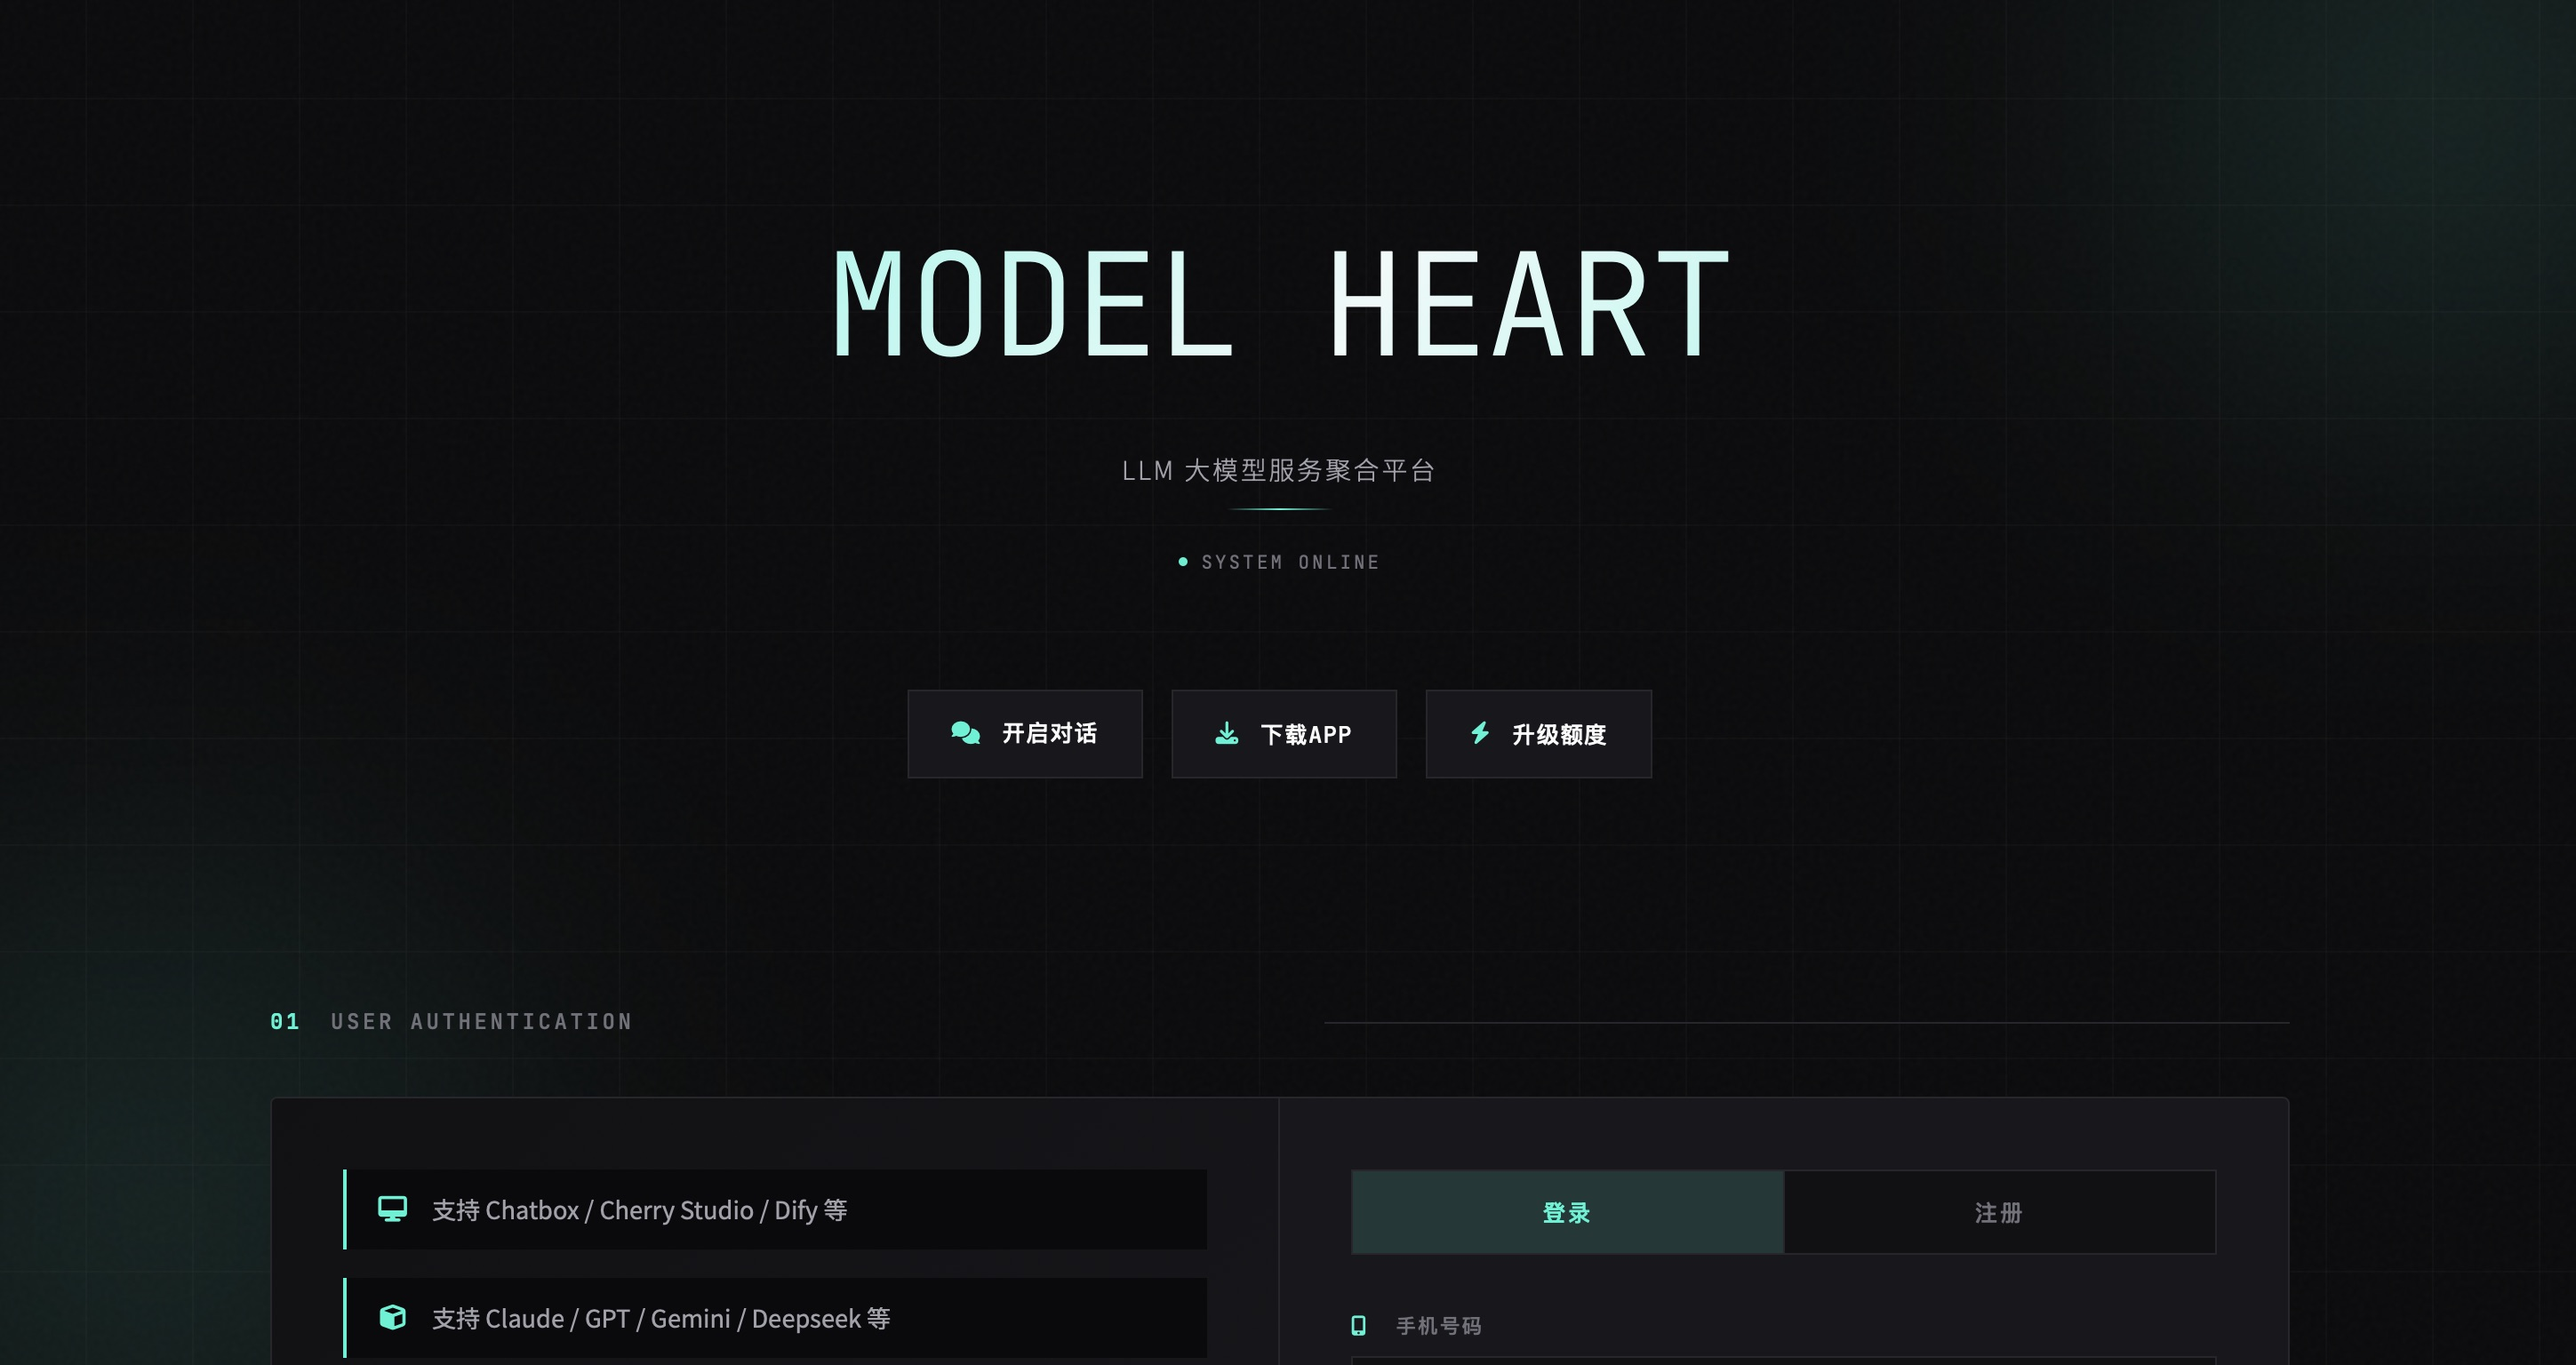
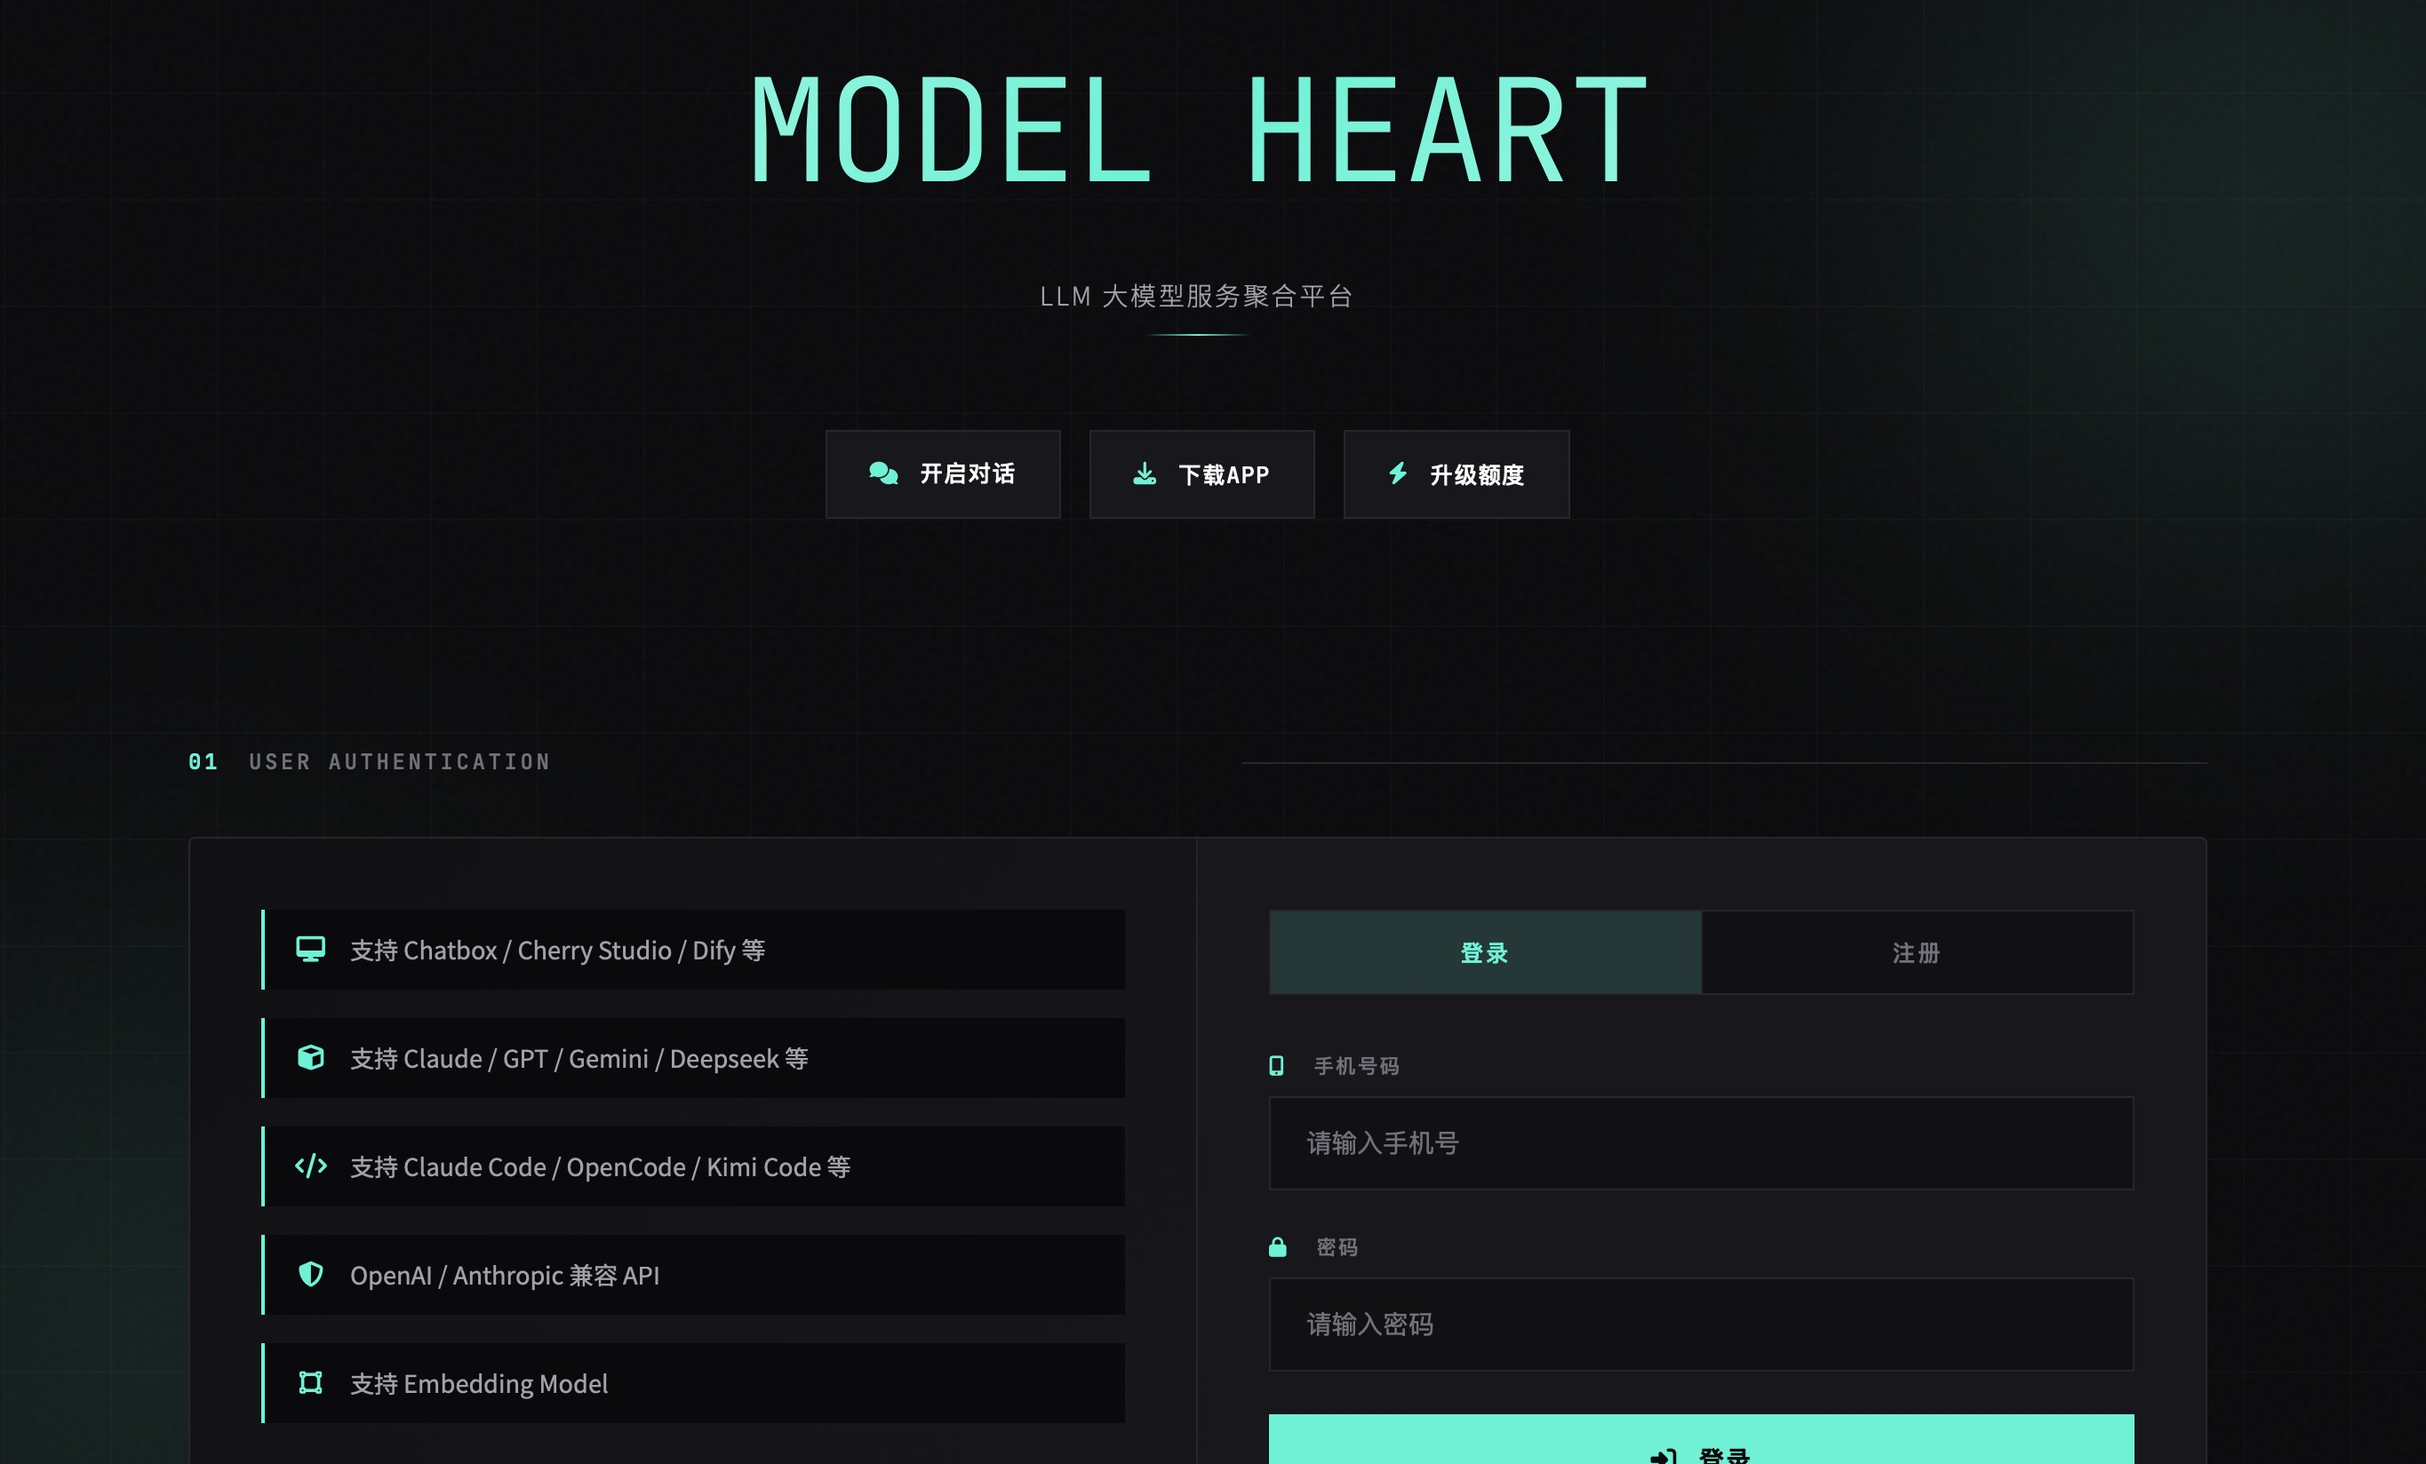
update readme

diff --git a/static/index.html b/static/index.html
@@ -216,31 +216,6 @@
             background: linear-gradient(90deg, transparent, var(--accent), transparent);
         }
 
-        /* 状态指示 */
-        .hero-status {
-            margin-top: 2rem;
-            display: flex;
-            align-items: center;
-            justify-content: center;
-            gap: 0.5rem;
-            animation: fadeSlideUp 0.6s ease-out 0.3s both;
-        }
-
-        .hero-status-dot {
-            width: 5px;
-            height: 5px;
-            background: var(--accent);
-            border-radius: 50%;
-            animation: statusPulse 2s ease-in-out infinite;
-        }
-
-        .hero-status-text {
-            font-family: 'JetBrains Mono', monospace;
-            font-size: 0.65rem;
-            color: var(--text-muted);
-            letter-spacing: 0.15em;
-        }
-
         /* 徽章 */
         .hero-badge {
             display: inline-block;
@@ -270,19 +245,6 @@
             color: var(--accent);
             margin-top: 1.5rem;
             animation: fadeSlideUp 0.6s ease-out 0.4s both;
-        }
-
-        .status-dot {
-            width: 6px;
-            height: 6px;
-            background: var(--accent);
-            border-radius: 50%;
-            animation: statusPulse 2s ease-in-out infinite;
-        }
-
-        @keyframes statusPulse {
-            0%, 100% { opacity: 1; }
-            50% { opacity: 0.4; }
         }
 
         /* ========================================
@@ -1393,10 +1355,6 @@
         <header class="header">
             <h1 class="hero-title">MODEL HEART</h1>
             <p class="hero-subtitle">LLM 大模型服务聚合平台</p>
-            <div class="hero-status">
-                <span class="hero-status-dot"></span>
-                <span class="hero-status-text">SYSTEM ONLINE</span>
-            </div>
         </header>
 
         <!-- 导航按钮 -->
